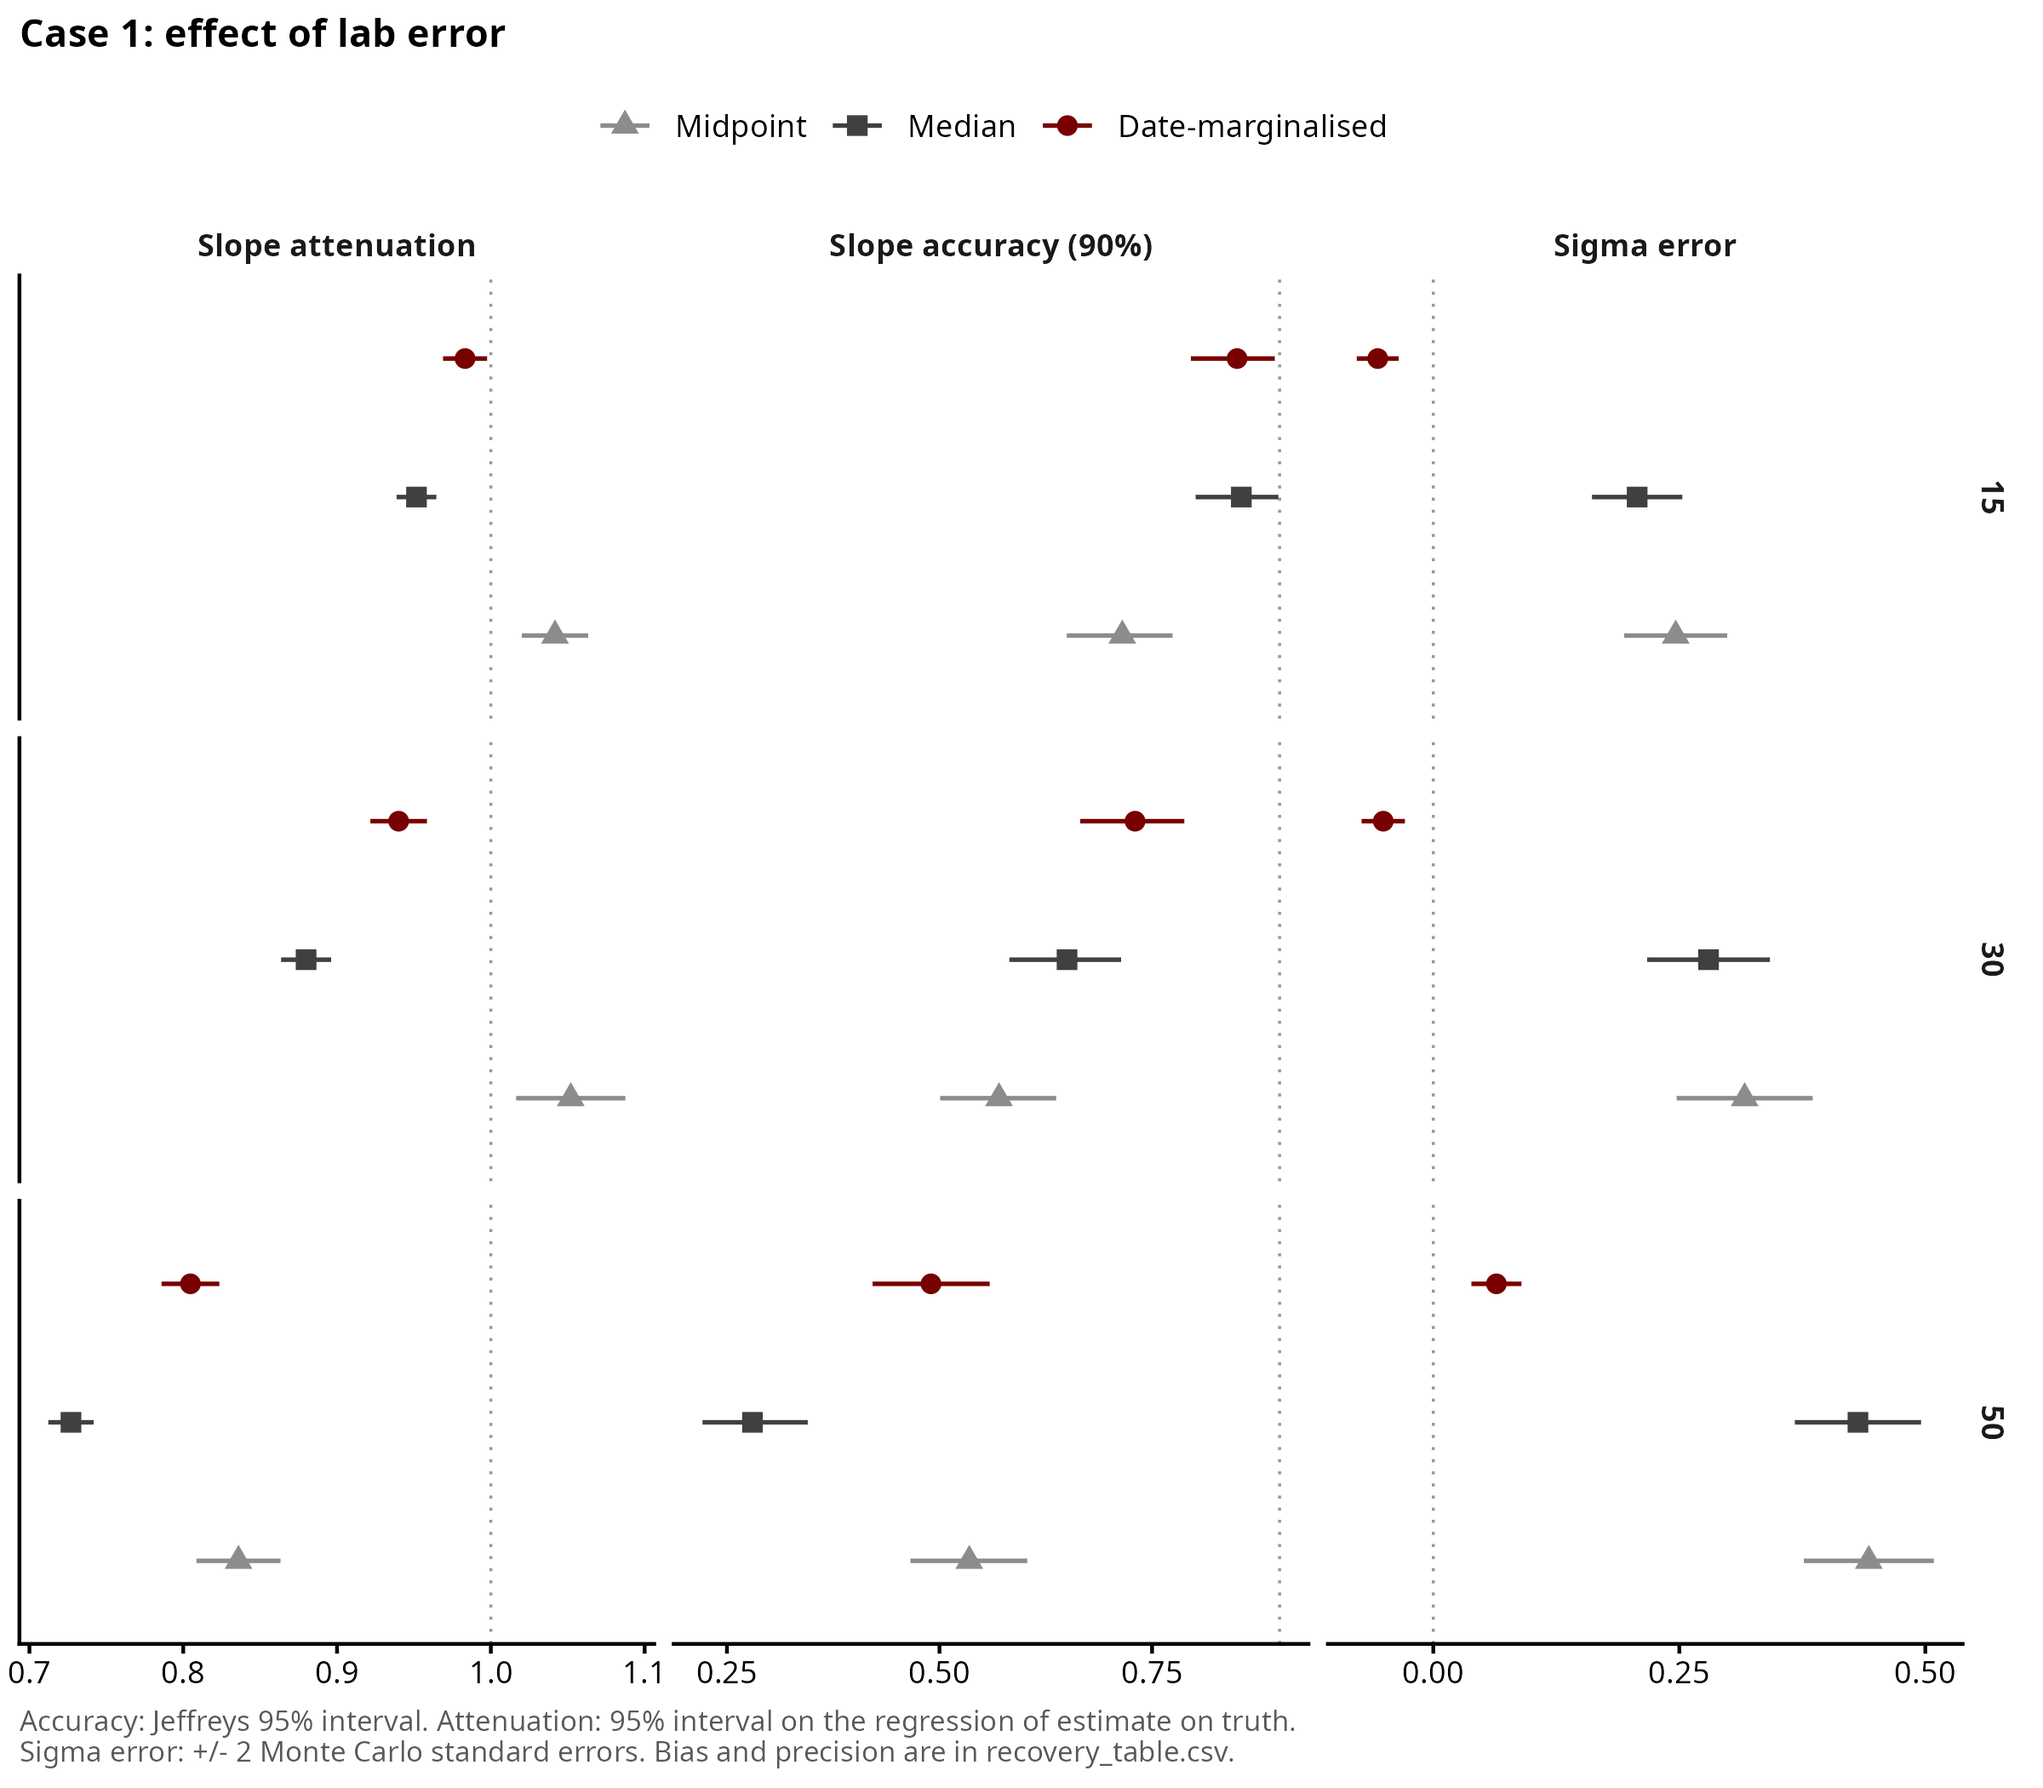
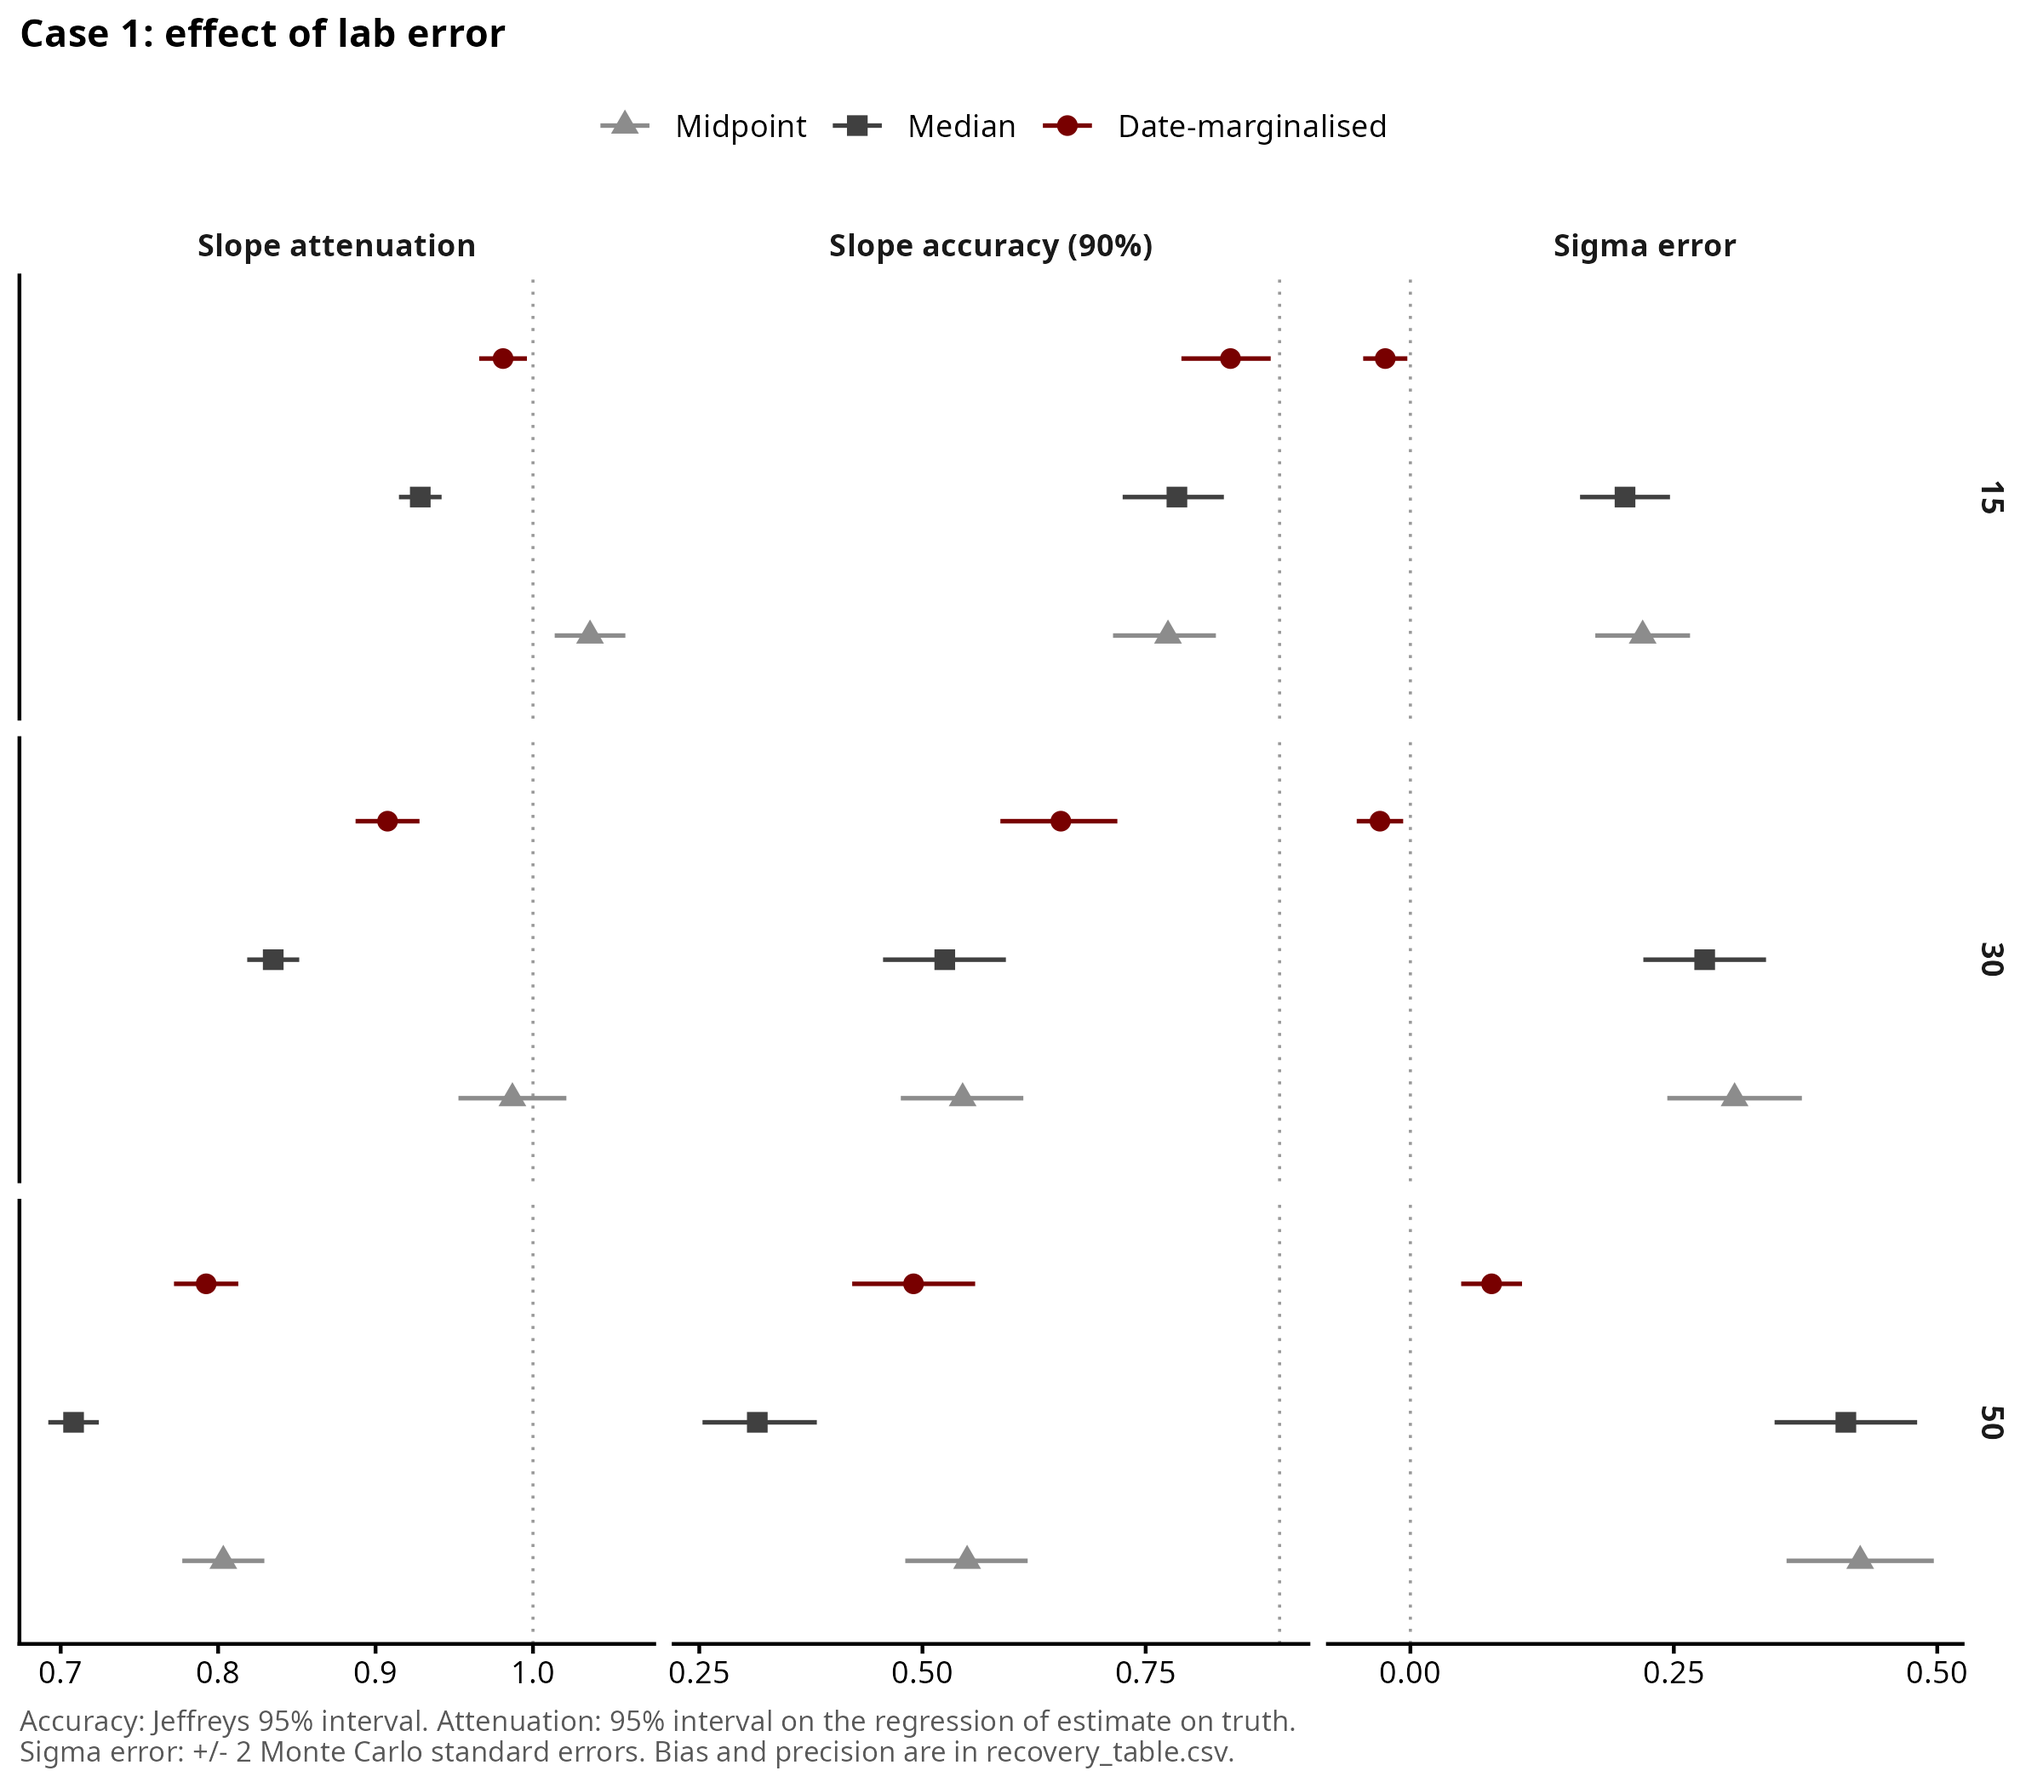
Case 1 refit results; hold the deposition sweep out of the headline
The refit landed: 4800 fits, none errored, no divergent transitions, worst
Rhat 1.0141. The deposition block samples cleanest of the three.

04_ was pooling the deposition cells into the headline table, so each window
silently averaged 100 growth datasets into its totals and stopped being
comparable with the earlier runs. The headline is now the reference condition
(growth_ratio == 1) and growth appears only in its own two figures.

Results, same cells and prior as the superseded run, generator differing only
in the curve error:

- plateau attenuation 1.11 / 0.82 / 0.96 for midpoint, median, marginalised
- plateau sigma error +0.28 / +0.26 / -0.03
- coverage falls almost everywhere, which is the flattering being removed

The exception is the envelope midpoint on the plateau, whose coverage improves
because its slope inflation drops from 17% to 11%: over-wide posteriors were
producing over-wide envelopes whose midpoints spread further apart than the
truth. The old generator overstated that model's failure. The ordering of the
three models is unchanged.

Deposition resolves nothing at 100 datasets per cell - every interval overlaps.
The near-miss is the cell where an effect was expected, the marginalised model
on the plateau, 0.986 [0.958, 1.015] against 0.936 [0.912, 0.961]. Same wall
Case 2's skew cells hit; the deposition block wants 300 reps as the skew block
got. Reported as a null, not as evidence of no effect.

diff --git a/Simulations/Sim_Case1_Radiocarbon/README.md b/Simulations/Sim_Case1_Radiocarbon/README.md
@@ -130,17 +130,14 @@ One dataset says nothing about bias — that is the recovery study's job, run by
 
 ## Recovery study results
 
-> **Superseded — refit running as of 2026-09-08.** The numbers below come from the
-> 1400-dataset design, generated with the lab error alone and uniform deposition
-> throughout. They are kept for comparison and live in
-> `output/superseded_uniform_nocurve/`. Both changes move absolute coverage, so treat every
-> figure in this section as provisional until the refit lands.
+4800 fits (1600 datasets x 3 models), run 2026-09-08 on the corrected generator: the
+curve error folded into the draw, deposition swept, slope prior `beta ~ normal(0, 40)`.
+The previous run is kept in `output/superseded_uniform_nocurve/`, and the one before it,
+under the tighter prior, in `output/superseded_prior_normal10/`.
 
-4200 fits (1400 datasets x 3 models), run 2026-09-07 with the widened slope prior
-`beta ~ normal(0, 40)` (plan section 9). The earlier run under `normal(0, 10)` is kept
-in `output/superseded_prior_normal10/`; the tighter prior was pulling every model's slope
-toward the truth and flattering the point summaries, so the contrast below is sharper than
-before.
+The headline table holds the deposition sweep out, so it is the reference condition
+(uniform deposition) and stays comparable with the earlier runs. Growth appears only in
+its own figures.
 
 Attenuation is the slope of `estimate ~ truth`: 1 is faithful, below 1 flattens, above 1
 exaggerates. Sigma error is the signed bias in the noise term (target 0).
@@ -149,39 +146,69 @@ exaggerates. Sigma error is the signed bias in the noise term (target 0).
 
 | model | attenuation | slope coverage (90%) | sigma error |
 |---|---|---|---|
-| Midpoint (envelope) | 1.17 | 0.77 | +0.31 |
-| Median (calibrated) | 0.86 | 0.77 | +0.28 |
-| Date-marginalised | 0.98 | 0.86 | -0.05 |
+| Midpoint (envelope) | 1.11 | 0.83 | +0.28 |
+| Median (calibrated) | 0.82 | 0.73 | +0.26 |
+| Date-marginalised | 0.96 | 0.84 | -0.03 |
 
-The three separate as intended. The date-marginalised model recovers the slope and the
-noise term; the envelope midpoint over-estimates the slope by ~17%; the calibrated median
-under-estimates it by ~14%. Its coverage (0.86) is the best of the three but still short of
-nominal 0.90.
+**Control window (1600-1200 BCE), 300 fits per model:**
 
-Attenuation on the plateau by lab error (N = 200):
-
-| lab error | Midpoint | Median | Date-marginalised |
+| model | attenuation | slope coverage (90%) | sigma error |
 |---|---|---|---|
-| 15 | 1.04 | 0.95 | 0.98 |
-| 30 | 1.05 | 0.88 | 0.94 |
-| 50 | 0.84 | 0.73 | 0.80 |
+| Midpoint (envelope) | 0.80 | 0.43 | +0.14 |
+| Median (calibrated) | 0.82 | 0.47 | +0.14 |
+| Date-marginalised | 0.83 | 0.49 | +0.01 |
 
-**Control window (1600-1200 BCE), 300 fits per model:** attenuation 0.82 / 0.84 / 0.85 and
-coverage ~0.50 for all three. Here the calibrated posteriors are narrow and single-humped,
-so the models cannot differ on the *shape* of the date, yet every one of them flattens the
-slope by about a sixth. That is the no-window-prior effect: the model spreads each date's
-mass over the whole padded grid and is never told the samples share a 400-year period, so at
-moderate lab error the slope attenuates for everyone. `05_attenuation_diagnostic.R` isolates
-it - an oracle fitted on the true dates recovers attenuation 1.0, and clipping each row to
-the study window also recovers 1.0, while folding the calibration curve's own error into the
-generator does not. So this is a property of the deliberate design decision in
-`weight_rows.R` (the study window is not used as prior information), reported as a
-limitation rather than fixed. (The diagnostic was last run under `normal(0, 10)`; the
-oracle-recovers-1.0 conclusion does not depend on the slope prior, but the exact numbers
-predate the widening.)
+The three separate on the plateau as intended, and the ordering is unchanged from the
+earlier runs: the date-marginalised model recovers the slope and the noise term, the
+envelope midpoint over-estimates the slope, the calibrated median under-estimates it.
+Sigma is where the gap is widest and least ambiguous — -0.03 against +0.26 and +0.28.
+Coverage is short of nominal 0.90 for every model, including the date-marginalised one.
+
+### What the curve-error fix changed
+
+Same cells, same prior; only the generator differs.
+
+| | attenuation | coverage | sigma error |
+|---|---|---|---|
+| Date-marginalised, plateau | 0.983 → 0.961 | 0.859 → 0.842 | -0.048 → -0.029 |
+| Median, plateau | 0.863 → 0.822 | 0.774 → 0.726 | +0.275 → +0.258 |
+| Midpoint, plateau | 1.172 → 1.113 | 0.772 → 0.828 | +0.309 → +0.283 |
+| all three, control | ~0.84 → ~0.82 | ~0.51 → ~0.46 | little change |
+
+Coverage falls almost everywhere, which is the flattering being removed: posteriors are no
+longer wider than the noise warrants. The exception is the envelope midpoint on the
+plateau, whose coverage *improves* because its slope inflation drops from 17% to 11% —
+over-wide posteriors were producing over-wide envelopes whose midpoints spread further
+apart than the truth, exaggerating the slope. So the old generator was overstating the
+midpoint model's plateau failure. The contrast is a little weaker than previously reported
+and it is the honest one.
+
+### Deposition: underpowered, nothing resolved
+
+Uniform against `growth_ratio = 4`, 100 datasets per cell, both windows. **Every
+comparison overlaps** — no effect is resolved at this replication, in either window, on
+any model.
+
+The one near-miss is the cell where an effect was expected, the date-marginalised model on
+the plateau: attenuation 0.986 [0.958, 1.015] uniform against 0.936 [0.912, 0.961] under
+growth, intervals overlapping by 0.003. Directionally growth pulls it away from 1, which is
+what oversampling the late edge of a plateau should do, but at n = 100 that cannot be
+claimed.
+
+This is the same wall Case 2's skew cells hit, and the same fix applies: `N_REP` for the
+deposition block should go to 300, as `N_REP_SKEW` did. That is +400 datasets, roughly
+45 minutes. Reported as a null in the meantime, not as evidence of no effect.
+
+### Convergence
+
+4800 fits, none errored, **no divergent transitions at all**, worst Rhat 1.0141 with 34
+fits above 1.01 and none above 1.05. The `deposition` block is the cleanest of the three
+(worst Rhat 1.010), so the growth geometry costs nothing in sampling. `04_` reprints this
+on every run.
 
 `04_` also reports that the 95% HPD envelope retains 97.5% of the calibrated mass on
-average - the share the envelope-midpoint model keeps and the rest of the curve it discards.
+average, and a false-positive rate on the zero-slope cells of 0.115 / 0.130 / 0.140 for
+midpoint / median / date-marginalised against a nominal 0.10.
 
 ## Running the study
 
